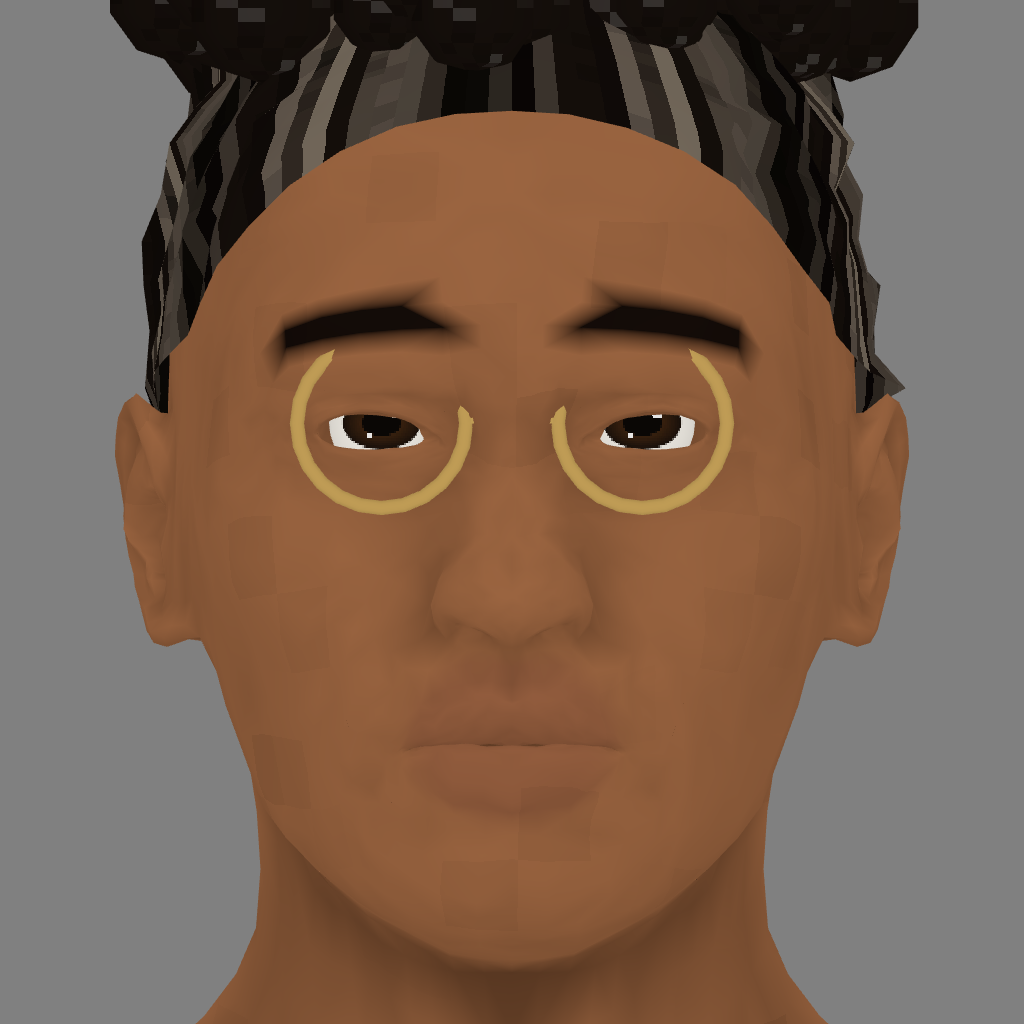
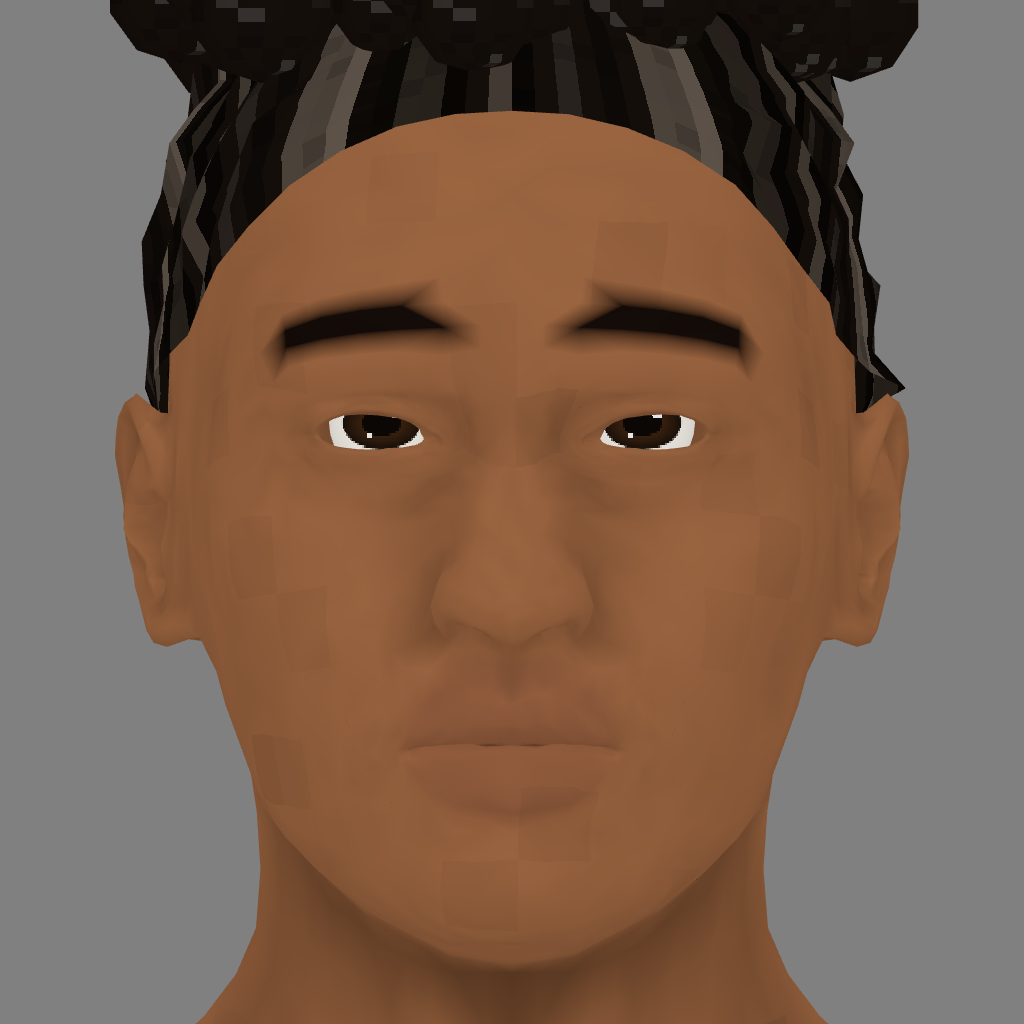
LOWKEY face base without glasses
Claude-Session: https://claude.ai/code/session_011nKJEx4yrQ6BSbMBJkAHnd

diff --git a/tools/faceview.html b/tools/faceview.html
@@ -3,7 +3,7 @@
 import * as THREE from 'three';
 import { loadMH, makeMH, resetPose, morph, styleBody } from '../engine/mh.js';
 const who=new URLSearchParams(location.search).get('c');
-const SPEC=await (await fetch('../cast/looks.json?'+Date.now())).json(); const sp={...SPEC[who], cap:null, cards:null, buns:false, clips:null, shadesUp:null, lashes2:false, bake:true};
+const SPEC=await (await fetch('../cast/looks.json?'+Date.now())).json(); const sp={...SPEC[who], cap:null, cards:null, roundGlasses:null, buns:false, clips:null, shadesUp:null, lashes2:false, bake:true};
 const D=await loadMH('../cast/built/'+who+'-mh.json'); const C=makeMH(D,sp);
 const R=new THREE.WebGLRenderer({antialias:true,preserveDrawingBuffer:true}); R.setSize(1024,1024); R.outputColorSpace=THREE.SRGBColorSpace; document.body.appendChild(R.domElement);
 const S=new THREE.Scene(); S.background=new THREE.Color('#808080'); S.add(new THREE.AmbientLight('#ffffff',2.2)); const d=new THREE.DirectionalLight('#ffffff',.6); d.position.set(0,0,5); S.add(d); S.add(C.root);
@@ -11,5 +11,7 @@ if(C.hair) C.hair.visible=true;
 morph(C,'eyeOpen',.3); C.root.updateMatrixWorld(true);
 const ey=C.eyeC.l.y, cx=0, cy=ey-.02, half=.115;
 const cam=new THREE.OrthographicCamera(-half,half,half,-half,.01,10); cam.position.set(cx,cy,3); cam.lookAt(cx,cy,0);
-R.render(S,cam); window.params={cx,cy,half}; window.img=R.domElement.toDataURL('image/png'); window.ready=true;
+R.render(S,cam); const P=(v)=>[ (v.x-cx)/half*512+512, (cy-v.y)/half*512+512 ];
+let mx=0,my=0,mn=0; const pos=D.pos; for(let i=0;i<D.mask.lips.length;i++){ if(D.mask.lips[i]>.75){mx+=pos[i*3];my+=pos[i*3+1];mn++;} }
+window.params={cx,cy,half, eyeL:P(C.eyeC.l), eyeR:P(C.eyeC.r), mouth:P({x:mx/mn,y:my/mn})}; window.img=R.domElement.toDataURL('image/png'); window.ready=true;
 </script></body></html>
